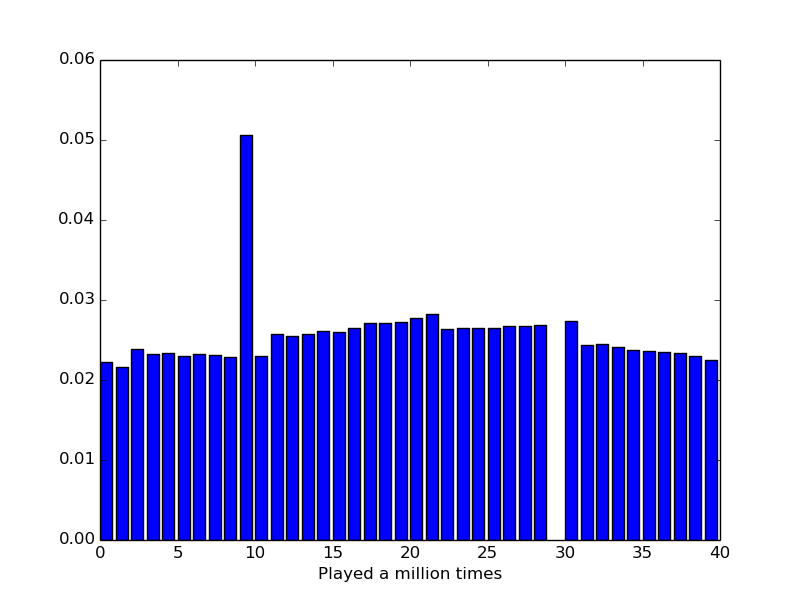
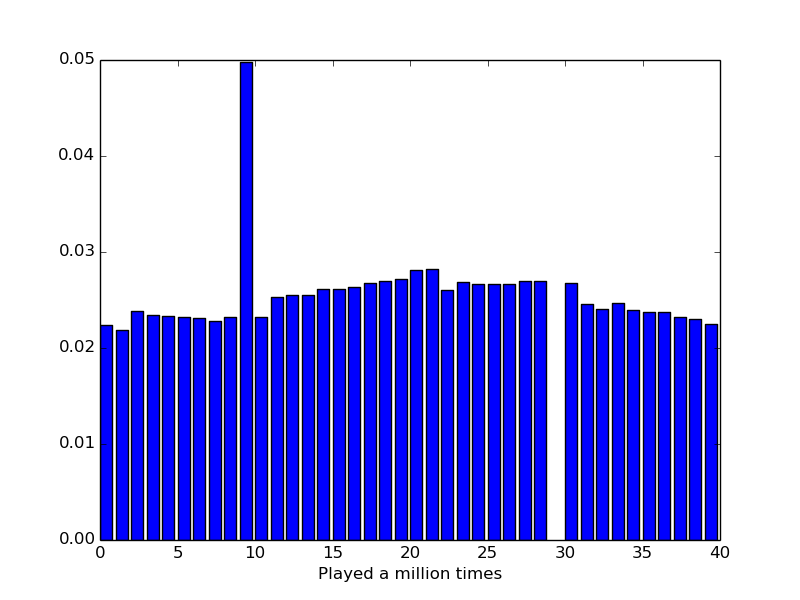
Added some more core.

diff --git a/RandomnessInBiology_Monsoon_2014/Assignment03/monopoly.py b/RandomnessInBiology_Monsoon_2014/Assignment03/monopoly.py
@@ -123,13 +123,14 @@ def play(step):
 def simulate():
     import pylab
     from collections import Counter
-    moves = play(1000000)
+    moves = play(10000000)
     counter = Counter(moves)
     xvals = list(counter)
     yvals = [ float(x) / sum(counter.values()) for x in counter.values()]
     pylab.bar(xvals, yvals)
     pylab.xlabel("Played a million times")
-    pylab.savefig('monopoly.png')
+    #pylab.savefig('monopoly.png')
+    pylab.show()
     
 if __name__ == '__main__':
     if len(sys.argv) < 2:

diff --git a/RandomnessInBiology_Monsoon_2014/Assignment04/solve.py b/RandomnessInBiology_Monsoon_2014/Assignment04/solve.py
@@ -13,9 +13,11 @@ class Brownian():
 
     def __init__(self, dt, initV = 0.0, runtime = 100.0):
         self.dt =  dt
+        self.steps = int(runtime/dt)
+        self.time = numpy.array(self.steps)
         self.a = 1.0 
         self.b = 1.0
-        self.alpha = numpy.random.normal(0.0, 1.0, int(runtime/dt))
+        self.alpha = numpy.random.normal(0.0, 1.0, self.steps)
         self.initV = initV
         self.finalV = 0.0
 
